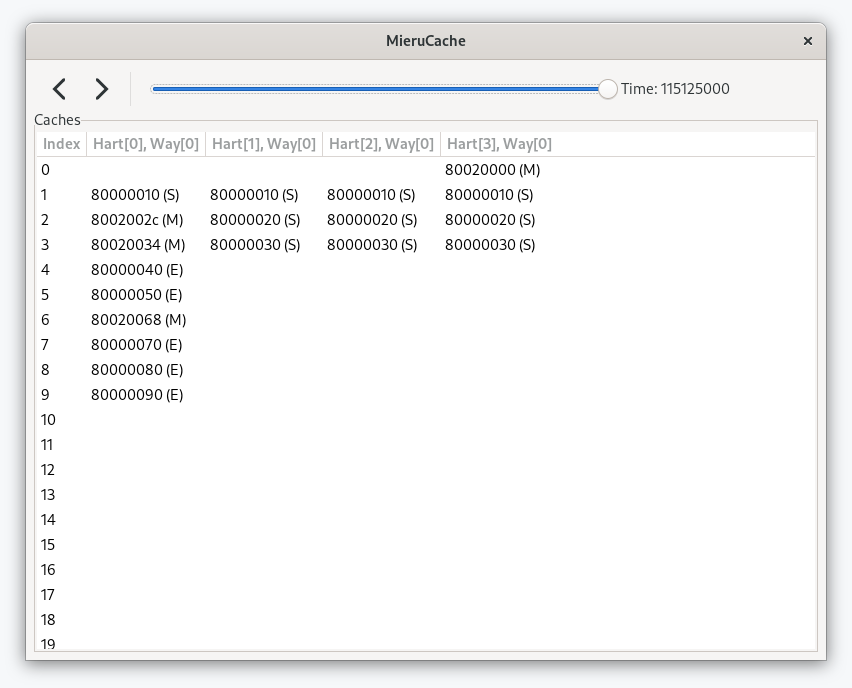
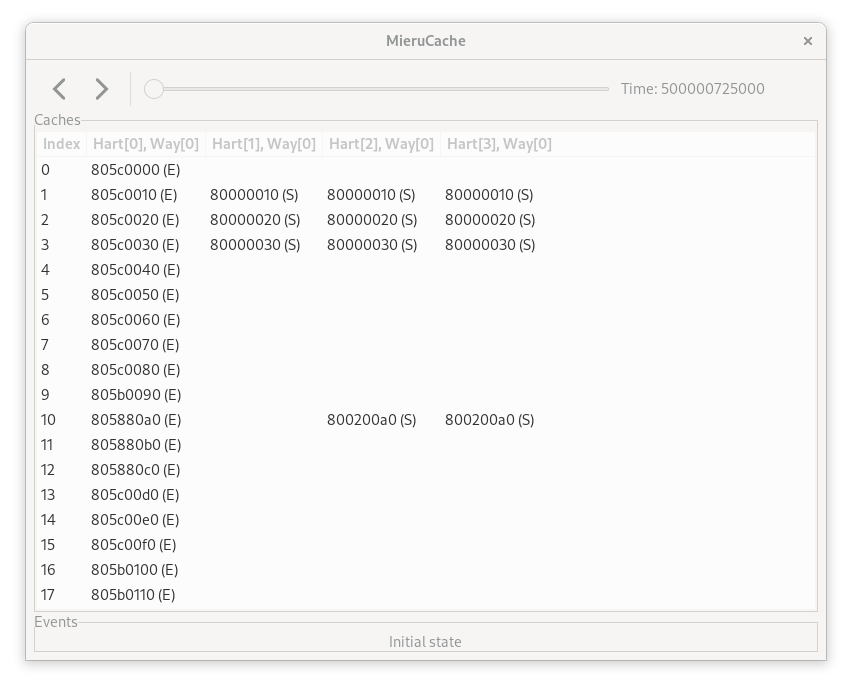
Update README.

diff --git a/README.md b/README.md
@@ -9,28 +9,39 @@ Then, type the following commands:
 
 ```
 make
-./build/mierucache example/example.txt
+./build/mierucache example/example_delayed.txt
 ```
 
 The expected result is as follows:
 
 ![Example screenshot](doc/img/exampe_screenshot.png)
 
+You can see cache state for each entry and occupying address, those are for the time you selected with the arrows or the bar on the top of the window.
+The event that occurred at the shown time is also displayed at the bottom of the window.
+
 ### Format
 
 Currently, MieruCache accepts text files with the following format:
 
-```
-num_harts num_entries num_ways
-time      hart_id     initiator_id    index    address    old_state    new_state
+```c++
+// configurations
+num_harts num_entries num_ways initial_time
+// initial cache state for each cores (harts)
+hart_id
+initial_address[hart_id][0]    initial_state[hart_id][0]
+initial_address[hart_id][1]    initial_state[hart_id][1]
+...
+// events
+time    target_hart_id    initiator_hart_id    index    address    old_state    new_state
 ...
 ```
 
-Please visit `example` directory.
+Please visit the [`example`](example) directory.
 
 ## TODO
 
 - [X] Implement a simple parser.
 - [X] Implement GUI.
 - [ ] Improve GUI.
-	- [ ] Highlight the changing cache lines.
+	- [x] Highlight the changing cache lines.
+- [ ] Enable multiple ways for set-associative and full-associative.
